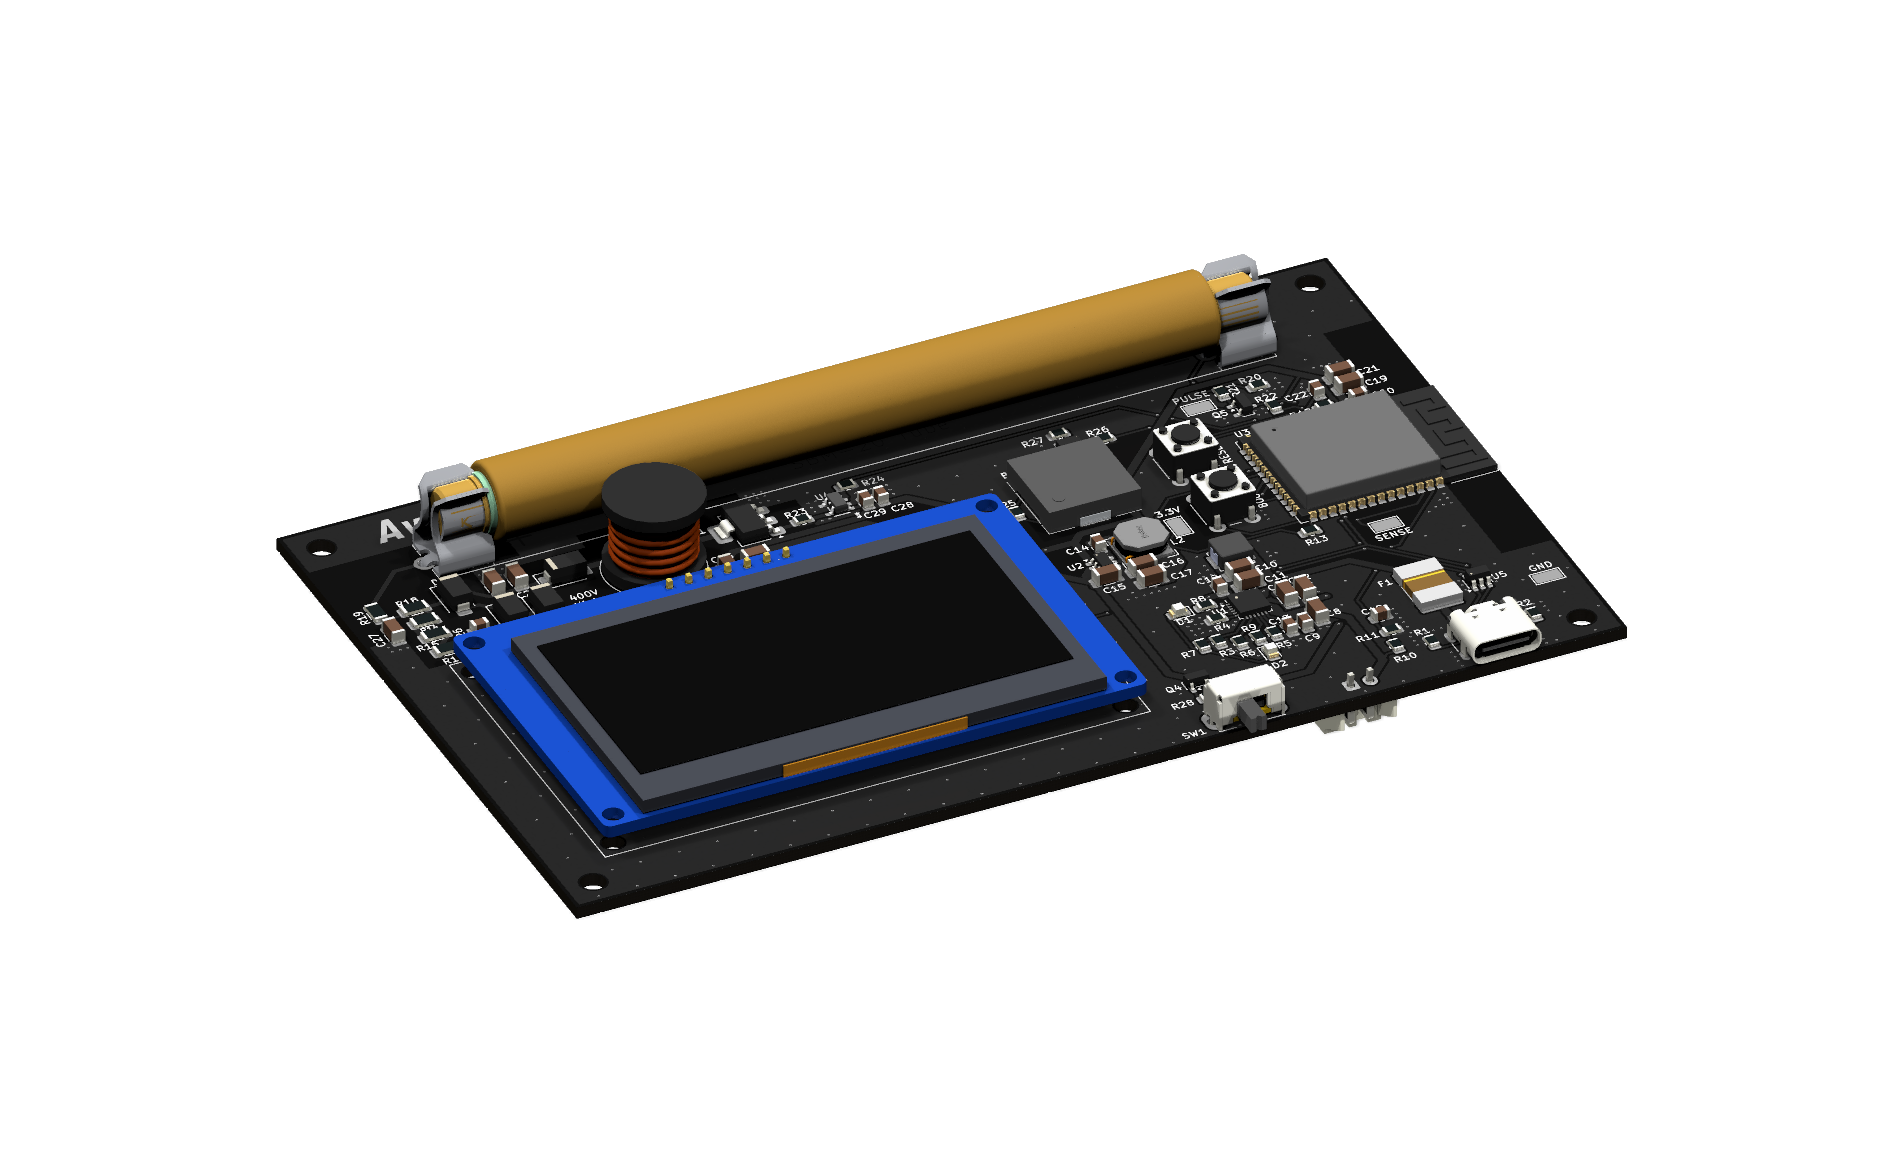
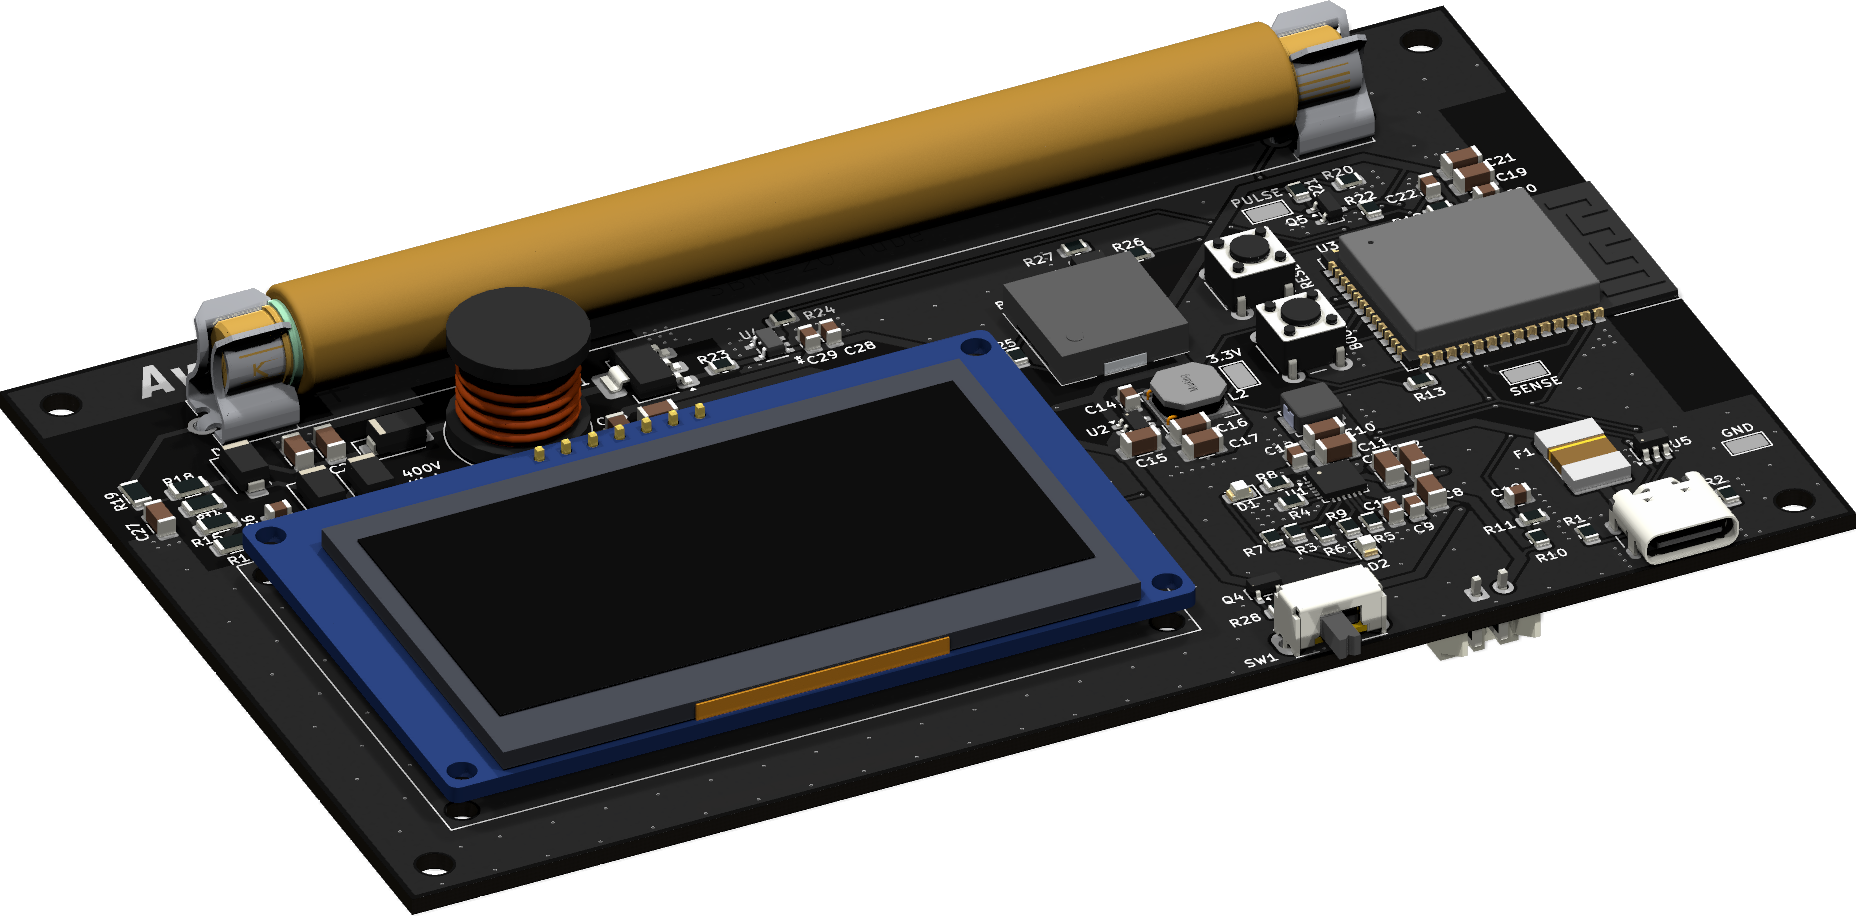
redid pics plus script

diff --git a/scripts/generate_images.py b/scripts/generate_images.py
@@ -10,7 +10,8 @@ so save in KiCad first.
     python scripts/generate_images.py --skip-layers   # 3D renders only
 
 Output:
-    Images/3D/      top, bottom, side and isometric renders (PNG, transparent background)
+    Images/3D/      top, bottom, side and isometric renders (PNG, transparent background,
+                    zoomed to fit and cropped to the board; needs Pillow: pip install pillow)
     Images/Layers/  each layer, front/back composites and drill map (PNG)
 
 Layer plots are exported by KiCad as SVG and rasterised with PyMuPDF
@@ -65,7 +66,9 @@ LAYER_PLOTS = [
     ("Edge_Cuts", "Edge.Cuts", False),
 ]
 
-PLOT_BACKGROUND = "#001023"   # KiCad's PCB editor background; the default layer colours need a dark page
+FIT_FILL = 0.98               # 3D renders: fraction of the frame the board fills before cropping
+ALPHA_THRESHOLD = 8           # 3D renders: pixels at or below this alpha count as empty when cropping
+PLOT_BACKGROUND = "#001023"  # KiCad's PCB editor background; the default layer colours need a dark page
 CROP_MARGIN_MM = 2.0          # padding kept around the board outline in layer PNGs
 
 
@@ -100,21 +103,57 @@ def run(cmd):
     return True
 
 
+def content_bbox(png):
+    """Bounding box (x0, y0, x1, y1) of the non-transparent pixels, or None."""
+    from PIL import Image
+    with Image.open(png) as im:
+        return im.getchannel("A").point(lambda a: 255 if a > ALPHA_THRESHOLD else 0).getbbox()
+
+
+def fit_zoom(bbox, w, h):
+    """Zoom multiplier that makes the content just fill a w x h frame.
+
+    kicad-cli zooms about the image centre, so the side furthest from the centre limits it.
+    """
+    x0, y0, x1, y1 = bbox
+    half_w = max(w / 2 - x0, x1 - w / 2)
+    half_h = max(h / 2 - y0, y1 - h / 2)
+    return FIT_FILL * min(w / 2 / half_w, h / 2 / half_h)
+
+
 def render_3d(cli, board, quality):
+    from PIL import Image
     out = IMAGES / "3D"
     out.mkdir(parents=True, exist_ok=True)
+    # "high" forces KiCad's plated/bare copper mode, which draws all copper under the mask
+    # a fixed bare-copper brown; "user" (+ --floor) keeps the stackup finish colour instead
+    q = ["--quality", "user", "--floor"] if quality == "high" else ["--quality", quality]
     failed = []
-    for i, (name, args, zoom, w, h) in enumerate(VIEWS_3D, 1):
-        print(f"  [{i}/{len(VIEWS_3D)}] {name}")
-        png = out / f"{name}.png"
-        png.unlink(missing_ok=True)   # kicad-cli can exit 0 without writing (e.g. file open in a viewer)
-        # "high" forces KiCad's plated/bare copper mode, which draws all copper under the mask
-        # a fixed bare-copper brown; "user" (+ --floor) keeps the stackup finish colour instead
-        q = ["--quality", "user", "--floor"] if quality == "high" else ["--quality", quality]
-        run([cli, "pcb", "render", *q, "--zoom", str(zoom),
-             "-w", str(w), "-h", str(h), *args, "-o", str(png), str(board)])
-        if not png.is_file():
-            failed.append(name)
+    with tempfile.TemporaryDirectory() as tmp:
+        for i, (name, args, zoom, w, h) in enumerate(VIEWS_3D, 1):
+            print(f"  [{i}/{len(VIEWS_3D)}] {name}")
+            png = out / f"{name}.png"
+            png.unlink(missing_ok=True)   # kicad-cli can exit 0 without writing (e.g. file open in a viewer)
+
+            # Quick basic-quality pass to measure the content, then zoom so it fills the frame
+            probe = Path(tmp) / f"{name}.png"
+            run([cli, "pcb", "render", "--quality", "basic", "--zoom", str(zoom),
+                 "-w", str(w), "-h", str(h), *args, "-o", str(probe), str(board)])
+            bbox = content_bbox(probe) if probe.is_file() else None
+            if bbox:
+                zoom *= fit_zoom(bbox, w, h)
+
+            run([cli, "pcb", "render", *q, "--zoom", f"{zoom:.4f}",
+                 "-w", str(w), "-h", str(h), *args, "-o", str(png), str(board)])
+            if not png.is_file():
+                failed.append(name)
+                continue
+            # Crop away whatever empty margin is left on the non-limiting axis
+            bbox = content_bbox(png)
+            if bbox:
+                with Image.open(png) as im:
+                    im.load()
+                im.crop(bbox).save(png)
     if failed:
         print(f"  WARNING: not written: {', '.join(failed)} (close any viewer holding them and re-run)")
 
